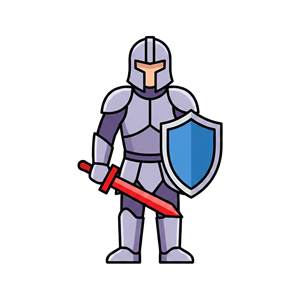
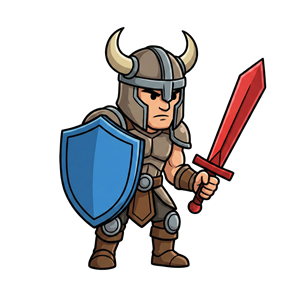
0.3.15
- adding new assets for enemies/player

diff --git a/src/view/CombatView.js b/src/view/CombatView.js
@@ -7,6 +7,7 @@ import { EventBus } from '../core/EventBus.js';
 import { EVENTS, ASSETS, SKILLS, ENTITIES } from '../core/Constants.js';
 import { runManager } from '../core/RunManager.js';
 import { ENEMIES } from '../data/enemies.js';
+import { HEROES } from '../data/heroes.js';
 
 export class CombatView {
     constructor(scene, combatManager) {
@@ -81,52 +82,66 @@ export class CombatView {
 
         // Entities Y (Lower Mid - "Standing" feel)
         // Entities Y (Lower Mid - "Standing" feel)
-        const ENTITY_Y = 360;
-        const HP_BAR_Y = 445;
-        const STATS_Y = 470;
+        // Entities Y (Floor alignment - Anchor at feet)
+        // Entities Y (Floor alignment - Anchor at feet)
+        this.groundY = 440;
+        const HP_BAR_Y = 455;
+        const STATS_Y = 480;
 
         // Left Flank (Player) - Centered in left space (0-406) -> X=200
-        const LEFT_X = 200;
+        this.leftX = 200;
 
         // 1. Hero Sprite
+        const heroConfig = HEROES['warrior'] || {};
+        const heroScale = heroConfig.scale || 1;
+        const heroOffset = heroConfig.yOffset || 0;
+        const heroXOffset = heroConfig.xOffset || 0;
+
         if (this.scene.textures.exists(ASSETS.HERO)) {
-            this.heroSprite = this.scene.add.image(LEFT_X, ENTITY_Y, ASSETS.HERO);
-            this.heroSprite.setDisplaySize(150, 150);
+            this.heroSprite = this.scene.add.image(this.leftX, this.groundY, ASSETS.HERO);
+            this.heroSprite.setOrigin(0.5, 1);
+            this.fitSprite(this.heroSprite, 300, 280, heroScale); // Max Width 300, Max Height 280
+
+            // Apply Offset
+            this.heroSprite.y += heroOffset;
+            this.heroSprite.x += heroXOffset;
+
             this.heroSprite.setDepth(100);
         } else {
-            this.heroSprite = this.scene.add.rectangle(LEFT_X, ENTITY_Y, 100, 100, 0x6666ff).setDepth(100);
+            // Placeholder rect (origin is center by default for rects usually, but easier to just adjust Y)
+            this.heroSprite = this.scene.add.rectangle(this.leftX, this.groundY - 50, 100, 100, 0x6666ff).setDepth(100);
         }
 
         // 2. Player Stats
         // HP Bar
-        this.playerHPBar = this.createHealthBar(LEFT_X, HP_BAR_Y, 150, 20, 0xff4444);
+        this.playerHPBar = this.createHealthBar(this.leftX, HP_BAR_Y, 150, 20, 0xff4444);
 
         // Other Stats (Container for Sprites + Text)
-        this.playerUI = this.scene.add.container(LEFT_X, STATS_Y);
+        this.playerUI = this.scene.add.container(this.leftX, STATS_Y);
         this.playerUI.setDepth(100);
 
         // Right Flank (Enemy) - Centered in right space (846-1252) -> X=1050
-        const RIGHT_X = 1050;
+        this.rightX = 1050;
 
         // 3. Enemy Sprite
-        this.enemySprite = this.scene.add.sprite(RIGHT_X, ENTITY_Y, ASSETS.ENEMY_PLACEHOLDER);
-        this.enemySprite.setDisplaySize(150, 150);
+        this.enemySprite = this.scene.add.sprite(this.rightX, this.groundY, ASSETS.ENEMY_PLACEHOLDER);
+        this.enemySprite.setOrigin(0.5, 1);
+        this.fitSprite(this.enemySprite, 350, 280); // Max Width 350, Max Height 280
         this.enemySprite.setDepth(100);
         this.enemySprite.setFlipX(false);
 
         // 4. Enemy Stats
-        // Name (Above Sprite)
-        // Name (Above Sprite)
-        this.enemyName = this.scene.add.text(RIGHT_X, ENTITY_Y - 90, '', {
+        // Name (Initial, will be updated by sprite height)
+        this.enemyName = this.scene.add.text(this.rightX, this.groundY - 190, '', {
             font: 'bold 13px Verdana',
             fill: '#aaaaaa', // Greyish, less prominent
             align: 'center'
         }).setOrigin(0.5).setResolution(2);
 
         // HP Bar
-        this.enemyHPBar = this.createHealthBar(RIGHT_X, HP_BAR_Y, 150, 20, 0xff4444);
+        this.enemyHPBar = this.createHealthBar(this.rightX, HP_BAR_Y, 150, 20, 0xff4444);
 
-        this.enemyUI = this.scene.add.container(RIGHT_X, STATS_Y);
+        this.enemyUI = this.scene.add.container(this.rightX, STATS_Y);
         this.enemyUI.setDepth(100);
 
         // Center Notification
@@ -148,7 +163,7 @@ export class CombatView {
         this.createCompactSkillButton(1, SKILLS.HEAL, '💚 Heal', 0x00cc44, SKILL_CENTER_X + (SKILL_SPACING / 2), SKILL_Y, () => this.combatManager.tryUseSkill(SKILLS.HEAL));
 
         // End Turn Button (Right Side, below entity)
-        this.endTurnBtn = this.scene.add.text(RIGHT_X, 550, 'END TURN', {
+        this.endTurnBtn = this.scene.add.text(this.rightX, 550, 'END TURN', {
             font: 'bold 18px Verdana',
             fill: '#ffffff',
             backgroundColor: '#cc0000',
@@ -351,14 +366,27 @@ export class CombatView {
         }
 
         // Enemy Visuals
-        // Determine texture - View Logic: Check if asset exists, else placeholder
         if (enemy && enemy.name) {
             const foundId = Object.keys(ENEMIES).find(key => ENEMIES[key].name === enemy.name);
+
             if (foundId) {
-                const texture = ENEMIES[foundId].texture;
-                if (this.scene.textures.exists(texture)) {
+                const data = ENEMIES[foundId];
+                const texture = data ? data.texture : null;
+                const customScale = (data && data.scale) ? data.scale : 1;
+                const yOffset = (data && data.yOffset) ? data.yOffset : 0;
+                const xOffset = (data && data.xOffset) ? data.xOffset : 0;
+
+                if (texture && this.scene.textures.exists(texture)) {
                     this.enemySprite.setTexture(texture);
+                    this.fitSprite(this.enemySprite, 350, 280, customScale);
+
+                    this.enemySprite.y = this.groundY + yOffset;
+                    this.enemySprite.x = this.rightX + xOffset; // Apply X Offset
+
+                    this.enemyName.y = this.enemySprite.y - this.enemySprite.displayHeight - 20;
+                    this.enemyName.x = this.enemySprite.x; // Keep name aligned with sprite (important if moved)
                 }
+                this.enemyName.y = this.enemySprite.y - this.enemySprite.displayHeight - 20;
             }
         }
 
@@ -367,17 +395,14 @@ export class CombatView {
             let intentIconKey = ASSETS.ICON_SWORD; // Default Attack
             let isBlockIntent = false;
 
-            if (enemy.currentIntent && enemy.currentIntent.type === 'DEFEND') { // Or BLOCK? Checked logic earlier, used 'DEFEND' in generated intent but 'BLOCK' constant?
-                // Logic: type: 'DEFEND' or 'ATTACK' string literal from Enemy.js
+            if (enemy.currentIntent && enemy.currentIntent.type === 'DEFEND') {
                 intentIconKey = ASSETS.ICON_SHIELD;
                 isBlockIntent = true;
             } else if (enemy.currentIntent && enemy.currentIntent.type === 'BLOCK') {
-                // For safety if legacy
                 intentIconKey = ASSETS.ICON_SHIELD;
                 isBlockIntent = true;
             }
 
-            // Enemy Name (Updated separately)
             if (this.enemyName) {
                 this.enemyName.setText(enemy.name ? enemy.name.toUpperCase() : 'ENEMY');
             }
@@ -385,33 +410,23 @@ export class CombatView {
             const eBlock = enemy.block || 0;
             const intentText = enemy.currentIntent ? enemy.currentIntent.text : 'Thinking...';
 
-            // Simplified Stats (Shield + Intent)
-            // If intent is block, we show Shield + Value? 
-            // Intent text usually says "Attack (12)" or "Block (5)"
-
             const items = [
                 { icon: ASSETS.ICON_SHIELD, text: `${eBlock}`, separator: true },
             ];
 
-            // Intent Icon
-            // For intent, we might want to just show the icon next to text
             if (enemy.currentIntent) {
-                // Check if intent is Attack/Defend to choose icon
-                // Already determined intentIconKey
                 items.push({ icon: intentIconKey, text: intentText });
             } else {
                 items.push({ text: 'Thinking...' });
             }
 
             this.renderStatGroup(this.enemyUI, items);
-
-            // Update HP Bar
             this.updateHealthBar(this.enemyHPBar, enemy.currentHP, enemy.maxHP);
         }
 
+
         // Update Buttons
         const canAct = turn === ENTITIES.PLAYER;
-
         this.updateSkillButton(SKILLS.HEAL, canAct && player.mana >= 8);
         this.updateSkillButton(SKILLS.FIREBALL, canAct && player.mana >= 5);
         this.updateEndTurnButton(canAct && (!this.scene.gridView || !this.scene.gridView.isAnimating));
@@ -547,5 +562,26 @@ export class CombatView {
                 target.clearTint();
             }
         });
+    }
+
+
+
+    // Helper: Scales sprite to fit within maxW/maxH while preserving Aspect Ratio
+    fitSprite(sprite, maxW, maxH, customScale = 1) {
+        if (!sprite || !sprite.width || !sprite.height) return;
+
+        // Reset scale to 1 first to get true dimensions
+        sprite.setScale(1);
+
+        const scaleX = maxW / sprite.width;
+        const scaleY = maxH / sprite.height;
+
+        // Scale Down Only: If image is smaller than box, keep it 1:1. Only shrink if too big.
+        let finalScale = Math.min(scaleX, scaleY, 1);
+
+        // Apply Manual Override (allows intentionally breaking the safety limits)
+        finalScale *= customScale;
+
+        sprite.setScale(finalScale);
     }
 }

diff --git a/src/core/RunManager.js b/src/core/RunManager.js
@@ -1,3 +1,5 @@
+import { ACTS } from '../data/acts.js';
+
 export class RunManager {
     constructor() {
         if (RunManager.instance) {
@@ -16,6 +18,7 @@ export class RunManager {
 
         this.map = [];
         this.currentTier = 0;
+        this.currentActIndex = 0; // Start with Act 1
         this.currentNode = null; // Track exact current node { tier, index }
     }
 
@@ -78,10 +81,11 @@ export class RunManager {
     // --- Map Generation (Refactored) ---
     generateMap() {
         this.map = [];
-        const tierSizes = this._calculateTierSizes();
+        const currentAct = ACTS[this.currentActIndex];
+        const tierSizes = this._calculateTierSizes(currentAct);
 
         // 1. Initialize Skeleton (All BATTLE)
-        this._initializeNodes(tierSizes);
+        this._initializeNodes(tierSizes, currentAct);
 
         // 2. Distribute Special Rooms (Bag System)
         this._distributeRoomTypes();
@@ -96,11 +100,14 @@ export class RunManager {
         this._ensureFairness();
     }
 
-    _calculateTierSizes() {
+    _calculateTierSizes(act) {
         const sizes = [];
         sizes.push(Math.floor(Math.random() * 3) + 2); // Tier 0: 2-4 nodes
 
-        for (let i = 1; i < 9; i++) {
+        // Generate up to length - 1 (Boss is last)
+        const totalTiers = act.length;
+
+        for (let i = 1; i < totalTiers - 1; i++) {
             let prev = sizes[i - 1];
             let next = prev;
             const roll = Math.random();
@@ -109,11 +116,11 @@ export class RunManager {
             else if (Math.random() < 0.1) next = Math.floor(Math.random() * 4) + 2;
             sizes.push(next);
         }
-        sizes.push(1); // Tier 9: Boss
+        sizes.push(1); // Final Tier: Boss
         return sizes;
     }
 
-    _initializeNodes(tierSizes) {
+    _initializeNodes(tierSizes, act) {
         for (let i = 0; i < tierSizes.length; i++) {
             const nodes = [];
             const count = tierSizes[i];
@@ -123,17 +130,19 @@ export class RunManager {
                 let status = (i === 0) ? 'AVAILABLE' : 'LOCKED';
                 let enemyId = 'slime';
 
-                if (i === 9) {
+                if (i === tierSizes.length - 1) {
                     type = 'BOSS';
-                    enemyId = 'dragon';
+                    // Pick random boss from Act
+                    const bosses = act.bosses || ['dragon'];
+                    enemyId = bosses[Math.floor(Math.random() * bosses.length)];
+                } else {
+                    // Default Enemy Pool from Act
+                    const enemies = act.enemies || ['slime'];
+                    enemyId = enemies[Math.floor(Math.random() * enemies.length)];
+
+                    // Keep Tier 1 Easy logic for now (can be config'd later)
+                    if (i === 1) enemyId = Math.random() < 0.5 ? 'slime' : 'rat';
                 }
-
-                // Default Enemy Pool
-                const enemies = ['slime', 'rat', 'skeleton', 'orc'];
-                enemyId = enemies[Math.floor(Math.random() * enemies.length)];
-
-                // Tier 1 Easy Enemies
-                if (i === 1) enemyId = Math.random() < 0.5 ? 'slime' : 'rat';
 
                 nodes.push({
                     type,

diff --git a/src/data/enemies.js b/src/data/enemies.js
@@ -3,6 +3,7 @@ export const ENEMIES = {
     'slime': {
         name: 'Acid Slime',
         texture: 'tex_slime',
+        scale: 0.7,
         hp: 40,
         maxHP: 40,
         goldReward: 15,
@@ -14,6 +15,7 @@ export const ENEMIES = {
     'rat': {
         name: 'Giant Rat',
         texture: 'tex_rat',
+        scale: 0.9,
         hp: 30,
         maxHP: 30,
         goldReward: 10,
@@ -26,6 +28,8 @@ export const ENEMIES = {
     'orc': {
         name: 'Orc Warrior',
         texture: 'tex_orc',
+        scale: 0.9,
+        xOffset: -30,
         hp: 80,
         maxHP: 80,
         goldReward: 25,
@@ -37,6 +41,8 @@ export const ENEMIES = {
     'skeleton': {
         name: 'Skeleton',
         texture: 'tex_skeleton',
+        scale: 1.2, // Manual override to make him bigger
+        yOffset: -20,
         hp: 60,
         maxHP: 60,
         goldReward: 20,

diff --git a/src/scenes/BootScene.js b/src/scenes/BootScene.js
@@ -14,6 +14,11 @@ export class BootScene extends Phaser.Scene {
         this.load.json('events', 'src/data/events.json');
         this.load.image('hero_sprite', 'assets/entities/warrior.png');
         this.load.image('tex_enemy_placeholder', 'assets/entities/enemy.png');
+        this.load.image('tex_skeleton', 'assets/entities/skeleton.png');
+        this.load.image('tex_rat', 'assets/entities/rat.png');
+        this.load.image('tex_slime', 'assets/entities/slime.png');
+        this.load.image('tex_orc', 'assets/entities/orc.png');
+        this.load.image('tex_dragon', 'assets/entities/dragon.png');
 
         // Icons (Small versions for UI)
         this.load.image('icon_sword', 'assets/icons/sword.png');

diff --git a/src/data/acts.js b/src/data/acts.js
@@ -1,0 +1,10 @@
+export const ACTS = [
+    {
+        id: 'act_1_dungeon',
+        name: 'The Dark Dungeon',
+        length: 10, // 9 Battle Nodes + 1 Boss
+        enemies: ['slime', 'rat', 'skeleton', 'orc'],
+        bosses: ['dragon'], // Pool of possible bosses for this act
+        background: 'bg_dungeon' // Placeholder for future use
+    }
+];

diff --git a/src/data/heroes.js b/src/data/heroes.js
@@ -1,0 +1,8 @@
+export const HEROES = {
+    'warrior': {
+        name: 'Warrior',
+        texture: 'hero_sprite', // Must match ASSETS.HERO key in BootScene
+        scale: 0.7,    // Scale override (1.0 = default fit)
+        yOffset: -10     // Vertical offset (positive = down, negative = up)
+    }
+};

diff --git a/src/core/Game.js b/src/core/Game.js
@@ -14,7 +14,7 @@ import { TreasureScene } from '../scenes/TreasureScene.js';
 import { logManager } from './LogManager.js';
 import { initDebugTools } from './DebugTools.js';
 
-export const APP_VERSION = '0.3.14';
+export const APP_VERSION = '0.3.15';
 
 const config = {
     type: Phaser.AUTO,
